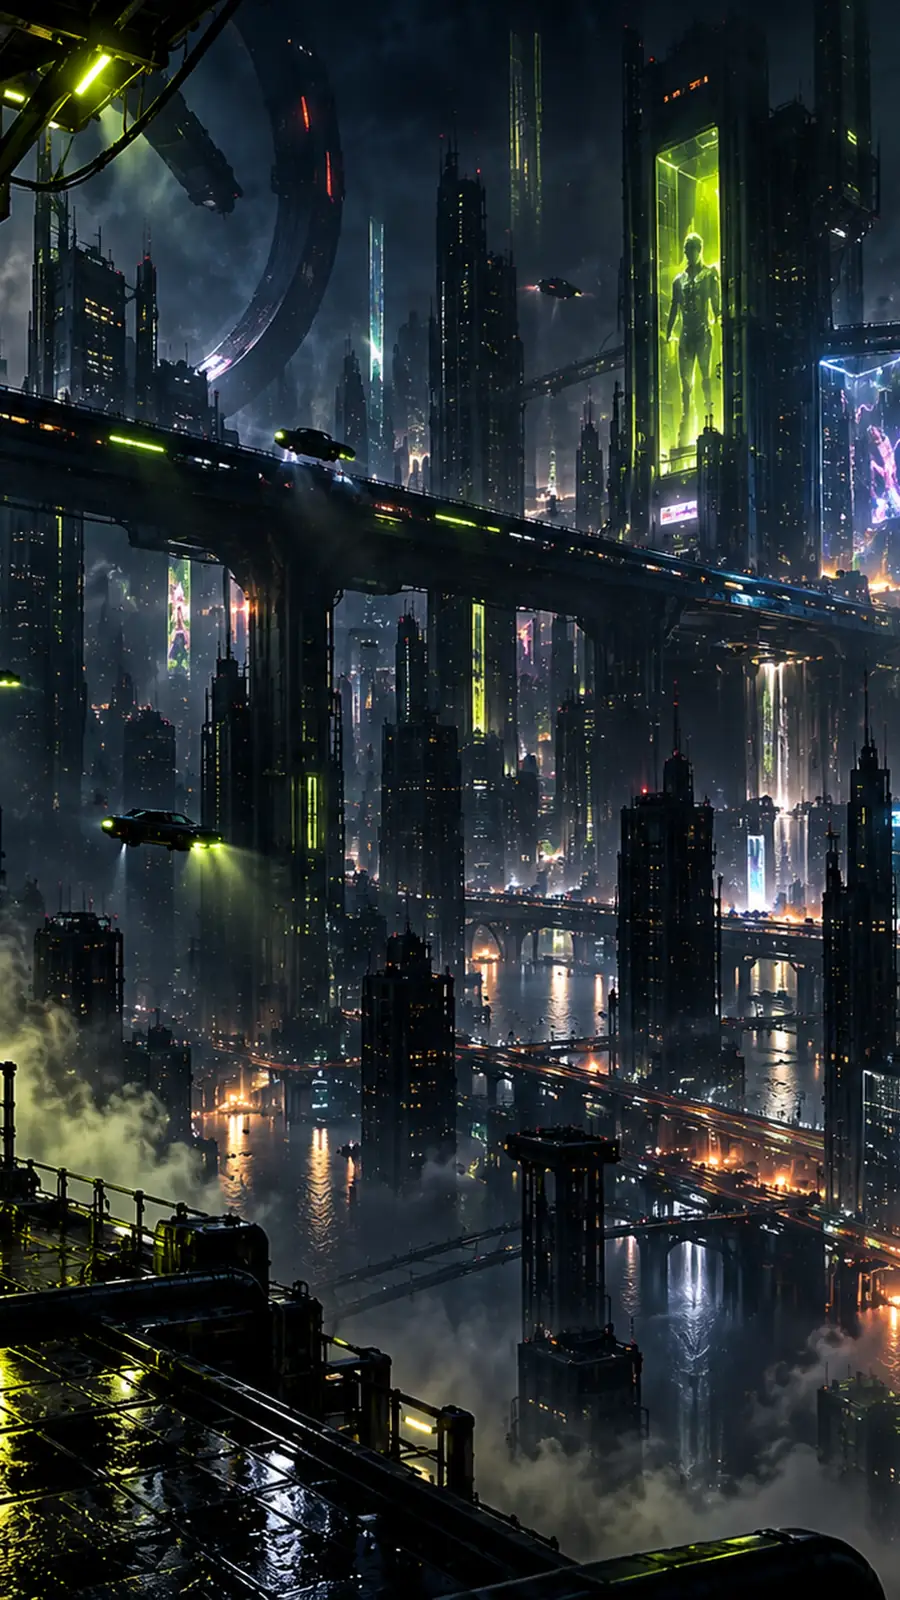
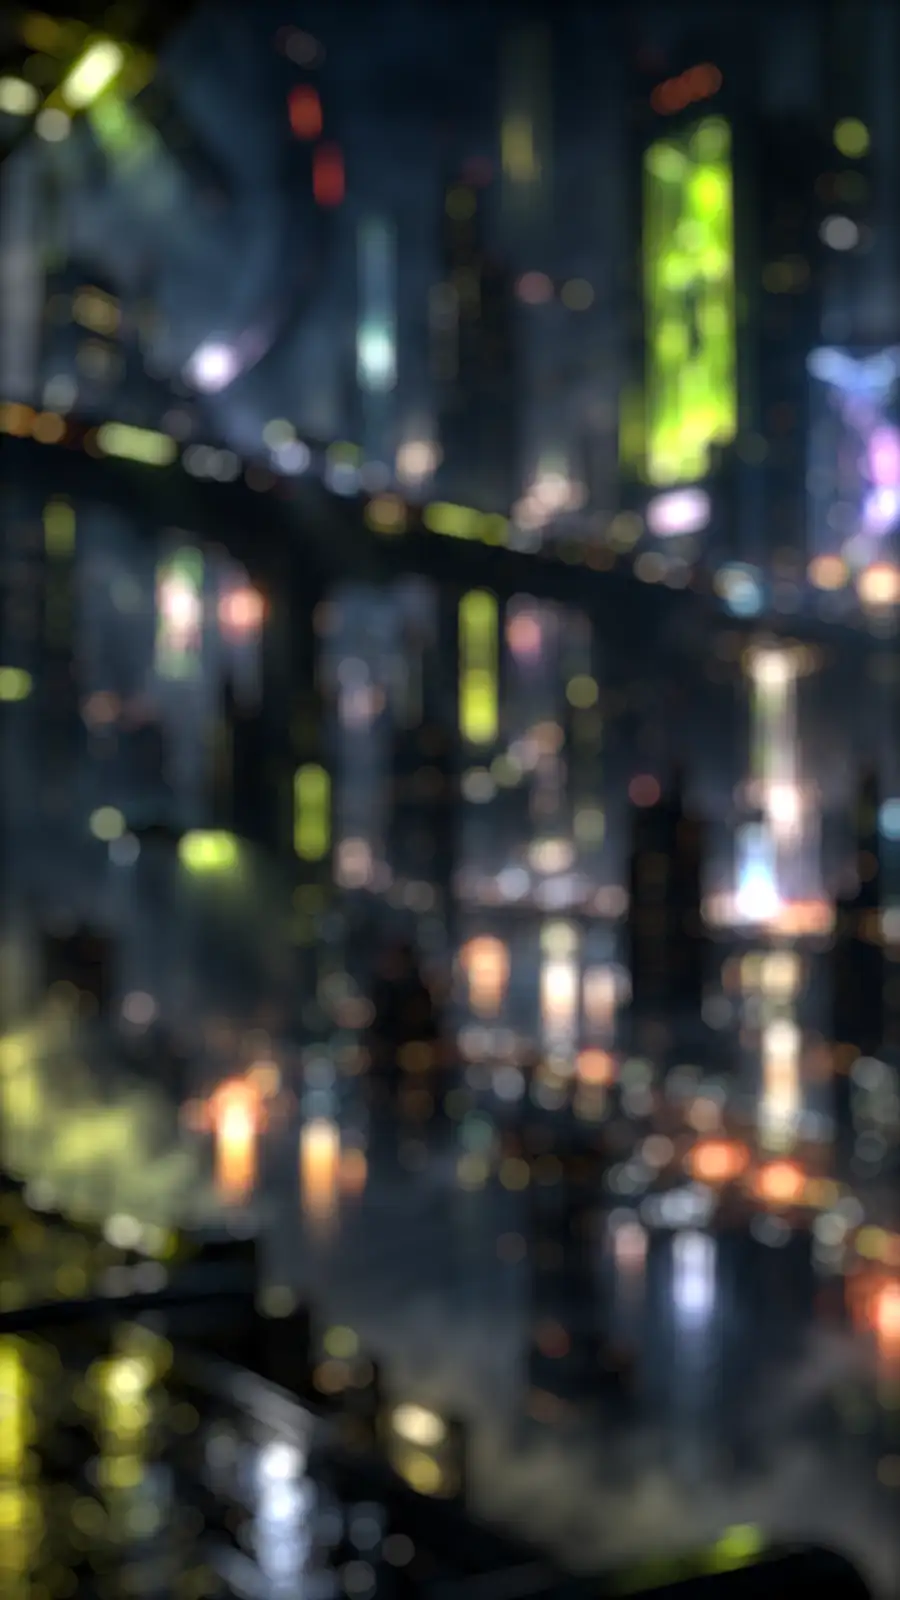
Cyberpunk: фони у варіанті «боке» (запечене розмиття), glitch лишається
Фото розмиті дисковим ядром у лінійному світлі з підсиленням світла (WebP ~30-55 KB замість ~130 KB, разом 489 KB на 6 застосунків).
Затемнення зменшене (22%/48%); смуги glitch трохи світліші, щоб читались на м'якій картинці.
Відкат до чітких фото: git revert цього коміту. Перемикання на «скло» — інша обробка тих самих джерел.

Claude-Session: https://claude.ai/code/session_01XRciSyGzXWcG83xZpB7vJ8

diff --git a/client/src/glass-glitch.css b/client/src/glass-glitch.css
@@ -21,6 +21,8 @@ html[data-theme] body::after {
   background:
     var(--bg-scrim, none),
     var(--bg-photo, none) center / cover no-repeat;
+  /* the picture is soft (baked bokeh), so a torn slice is lifted a little to read as a tear */
+  filter: brightness(1.6) saturate(1.3);
   opacity: 0;
   animation: bg-glitch 11s steps(1, end) infinite;
 }
@@ -41,12 +43,12 @@ html[data-theme] body::after {
   59% {
     clip-path: inset(48% 0 41% 0);
     transform: translateX(20px);
-    filter: hue-rotate(70deg) saturate(1.25);
+    filter: brightness(1.7) hue-rotate(70deg) saturate(1.3);
   }
   60.2% {
     clip-path: inset(31% 0 60% 0);
     transform: translateX(-9px);
-    filter: none;
+    filter: brightness(1.6) saturate(1.3);
   }
   61.4% {
     clip-path: inset(72% 0 20% 0);
@@ -64,12 +66,12 @@ html[data-theme] body::after {
   87.6% {
     clip-path: inset(22% 0 70% 0);
     transform: translateX(-12px);
-    filter: hue-rotate(-60deg) saturate(1.25);
+    filter: brightness(1.7) hue-rotate(-60deg) saturate(1.3);
   }
   88.8% {
     clip-path: inset(80% 0 12% 0);
     transform: translateX(9px);
-    filter: none;
+    filter: brightness(1.6) saturate(1.3);
   }
 }
 @media (prefers-reduced-motion: reduce), (update: slow) {

diff --git a/client/src/themes/cyberpunk.css b/client/src/themes/cyberpunk.css
@@ -310,8 +310,8 @@ html[data-theme='cyberpunk'] {
     var(--bg-scrim, none),
     var(--bg-photo, none) center / cover no-repeat;
   --bg-scrim: linear-gradient(
-    color-mix(in srgb, var(--color-bg) 28%, transparent),
-    color-mix(in srgb, var(--color-bg) 58%, transparent)
+    color-mix(in srgb, var(--color-bg) 22%, transparent),
+    color-mix(in srgb, var(--color-bg) 48%, transparent)
   );
   --bg-photo-land: url('/backgrounds/gym-land.webp');
   --bg-photo-port: url('/backgrounds/gym-port.webp');
